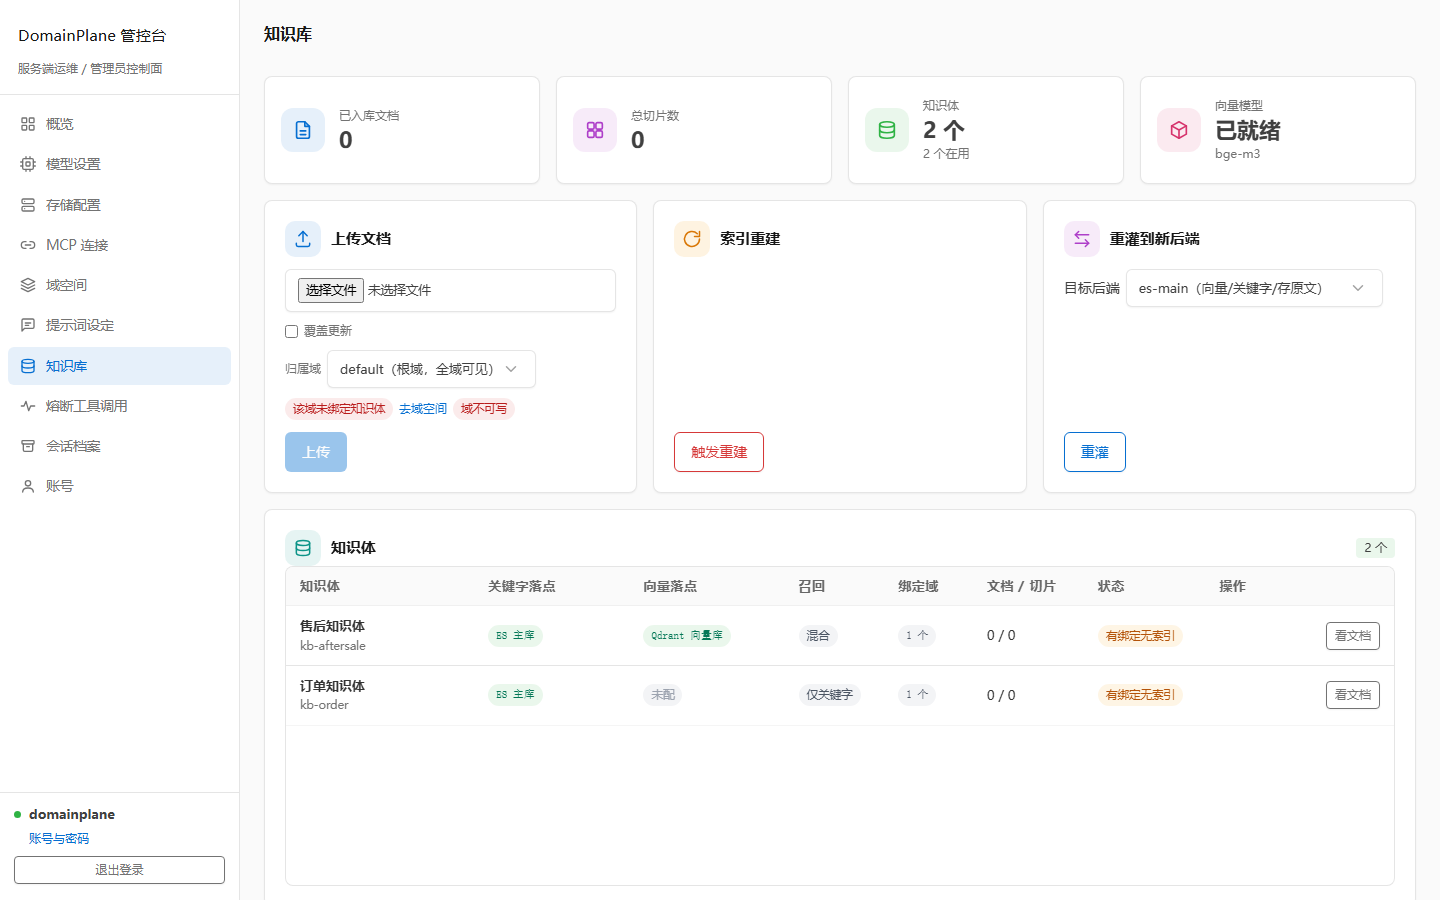
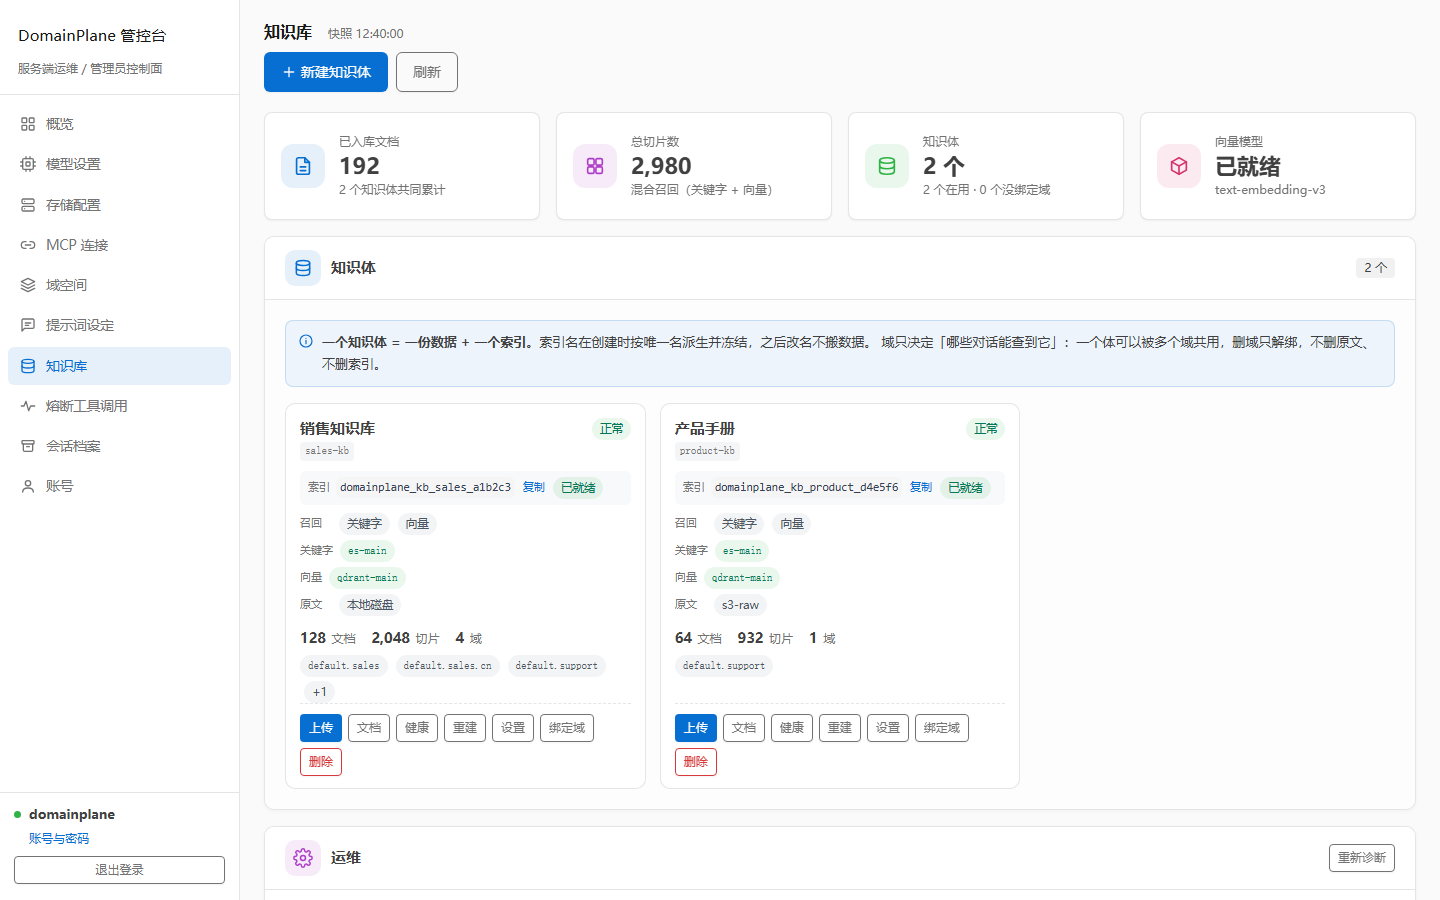
docs: 重做管控台截图，同步中英文 README
- 4 张截图按现版页面重截并覆盖 docs/assets/screenshots/（统一 1440x900）：
  域空间已是连线节点树、模型设置已是一张表 + 用途分配、知识库有知识体卡片。
- 删掉「截图为早期空库状态，页面此后已按知识体重做」——已经过时。
- 域空间卡片实际显示可调用模型 / 知识体 / 可见工具，原文写的「提示词字数 / MCP 连接」不准。
- 知识库运维区是常开的，不是折叠。
- 英文 README 的 Models 段落整体落后于中文（还写着 embedding 独立分区、其余按类型分组），
  按现版重写。
- docs/07 知识库：会重算向量的三类动作那节，判据改为向量身份，补 embeddingIdentity 机制。

diff --git a/README.en.md b/README.en.md
@@ -104,13 +104,13 @@ Everything is configured in the browser and **takes effect on save** — Elastic
 
 ![Domains](docs/assets/screenshots/console-domains.png)
 
-Callable models, visible tools and bound MCP connections sit on the same card. The root domain is an **assembly node** (it only passes capabilities down and cannot be an entry point); leaf domains are the **callable units**. "Visible tools (including inherited)" answers the only question that matters: what can this domain actually do?
+Callable models, the bound knowledge body and visible tools sit on the same card. The root domain is an **assembly node** (it only passes capabilities down and cannot be an entry point); leaf domains are the **callable units**. "Visible tools (including inherited)" answers the only question that matters: what can this domain actually do?
 
-### Models: the embedding model is managed separately
+### Models: one table, assigned by purpose
 
 ![Models](docs/assets/screenshots/console-models.png)
 
-There is exactly one embedding model platform-wide (both ingestion and retrieval depend on it), so it gets its own section. Other profiles are grouped by type, and "used by which domains" is printed on the card — no page jumping to change a binding. Context window and thinking-output toggles are edited in place.
+When adding a model you tick its purpose (chat / embedding / rerank / image / TTS / ASR / video); saving only registers it — no type guessing, no probe request. Every profile lives in the same table, and the endpoint-family tag says what it can do. The "Purpose assignment" bar at the top designates one of them as the single platform-wide embedding model (ingestion and retrieval both go through it); the other capabilities are bound to domains on the Domains page. Not sure about the purpose? Hit "Detect purpose" for a pre-ticked suggestion — you can still change it. Context window, thinking-output flag, temperature and custom parameters are all edited in place on the card.
 
 ### Storage: the connection pool
 
@@ -122,9 +122,9 @@ Redis, keyword (Elasticsearch), vector (Qdrant) and raw (S3-compatible) connecti
 
 ![Knowledge base](docs/assets/screenshots/console-knowledge.png)
 
-A body card carries every action for one dataset: upload, documents, health, rebuild, change landing spot, bind domains, delete. A collapsed operations section at the bottom handles diagnostics, adopting orphaned collections, cleaning up leftovers and merging bodies.
+A body card carries every action for one dataset: upload, documents, health, rebuild, change landing spot, bind domains, delete. An operations section at the bottom handles diagnostics, adopting orphaned collections, cleaning up leftovers and merging bodies.
 
-> Screenshots of an early empty-library state; the pages have since been rebuilt around knowledge bodies. Data is demo data.
+> Screenshots come from a demo environment; the data is synthetic.
 
 The other pages: overview (quality and tool risk mix), prompts (edit per domain chain segment), MCP connections (automatic protocol-era detection, tool try-runs and event log, OAuth authorization and revocation; credentials only echoed as `hasHeaders`), tool instances (live list, circuit-break, force offline), session archive (paginated turns by session ID, with conversation text, execution steps and per-turn status; a confirmed action clears one session), account (changing the password invalidates every credential).
 

diff --git a/docs/07-知识库.md b/docs/07-知识库.md
@@ -430,14 +430,22 @@ Block(kind, level, text, pageNo)
 
 | 动作 | 入口 | 范围 | 什么时候用 |
 | --- | --- | --- | --- |
-| 换向量模型 | 「模型设置」页，保存时选 `rebuild`（保留原文重灌）或 `purge`（清空） | 全部知识体 | 换模型且维度不同，必须做 |
+| 换向量模型 | 「模型设置」页，保存时选 `rebuild`（保留原文重灌）或 `purge`（清空） | 全部知识体 | 向量身份（服务商地址 / 模型名 / 维度）变了才做 |
+
+判据是**向量身份**，不是档案别名：换档案但地址、模型名、维度都没变（删掉重建同一个模型，别名会派生为 `xxx-2`）时直接切过去，不弹确认、不重灌——索引里那些向量就是它算的。
+
+身份单独记在 `models.json` 的 `embeddingIdentity` 里，**删档案不会清它**（删档案不动索引，索引还是它算的）。不单独记的话，槽位一被级联清空就没人知道"上一个是谁"，最常见的「删了重建同一个模型」就会被判成换模型、白重灌一遍。老配置没有这个字段，退化为"与上一个选中的档案比"，可能多问一次，不会漏。
+
+两个方向上都会出错，两边都得挡：不同模型即使维度相同也不能复用旧向量（向量空间不同，检索变噪声且不报错）；同一个模型换个档案名也不该重灌一遍（白花时间与 embedding 费用）。
 | 重建某个体 | `POST /admin/bodies/{id}/rebuild`，`from=archive`（默认，从原文）或 `reset`（重建为空索引） | 单个知识体 | 索引 mapping / 分词器换了，或这一个体的向量脏了 |
 | 换某一路落点 | `PUT /admin/bodies/{id}/routes` | 单个体的一路 | 想把关键字或向量搬到另一台连接（见 §3） |
 
 另有全局入口 `POST /admin/embedding-model/rebuild`、`/admin/embedding-model/purge`，供脚本与"按当前模型全量重灌"使用。
 v1 的 `POST /admin/kb/reindex`（全站重灌到指定后端）**已移除**：换后端就是改一路落点，粒度是体。
 
-换模型时给的是显式选择，**不静默重算**——向量化成本与失败面都很大，一次保存触发几小时后台任务而用户不知道，是事故源。保存模型档案会做维度预检：声明维度与实测不符、或与已建索引不符时，先拦下来要求重建。
+换模型时给的是显式选择，**不静默重算**——向量化成本与失败面都很大，一次保存触发几小时后台任务而用户不知道，是事故源。
+
+所以**当前向量档案的身份字段（地址 / 模型名 / 维度）不能从「保存档案」这条路改**：那条路没有重灌确认，改完就是静默错配（查询用新模型算、库里是旧模型的向量，检索照常返回结果，只是全是噪声）。服务端直接拒绝并提示走新建档案 → 切换。换 API Key、改协议不受影响，它们不改变向量。
 
 ---
 
